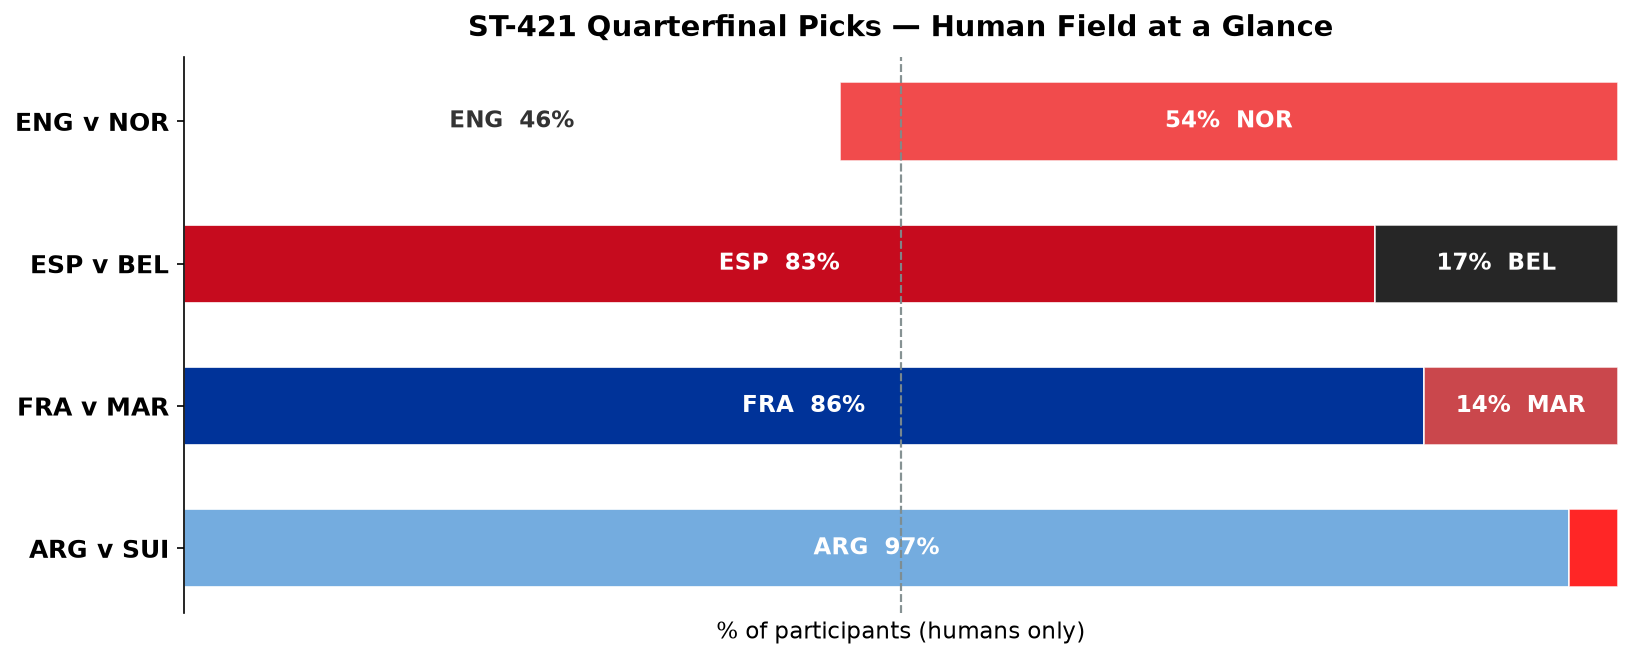
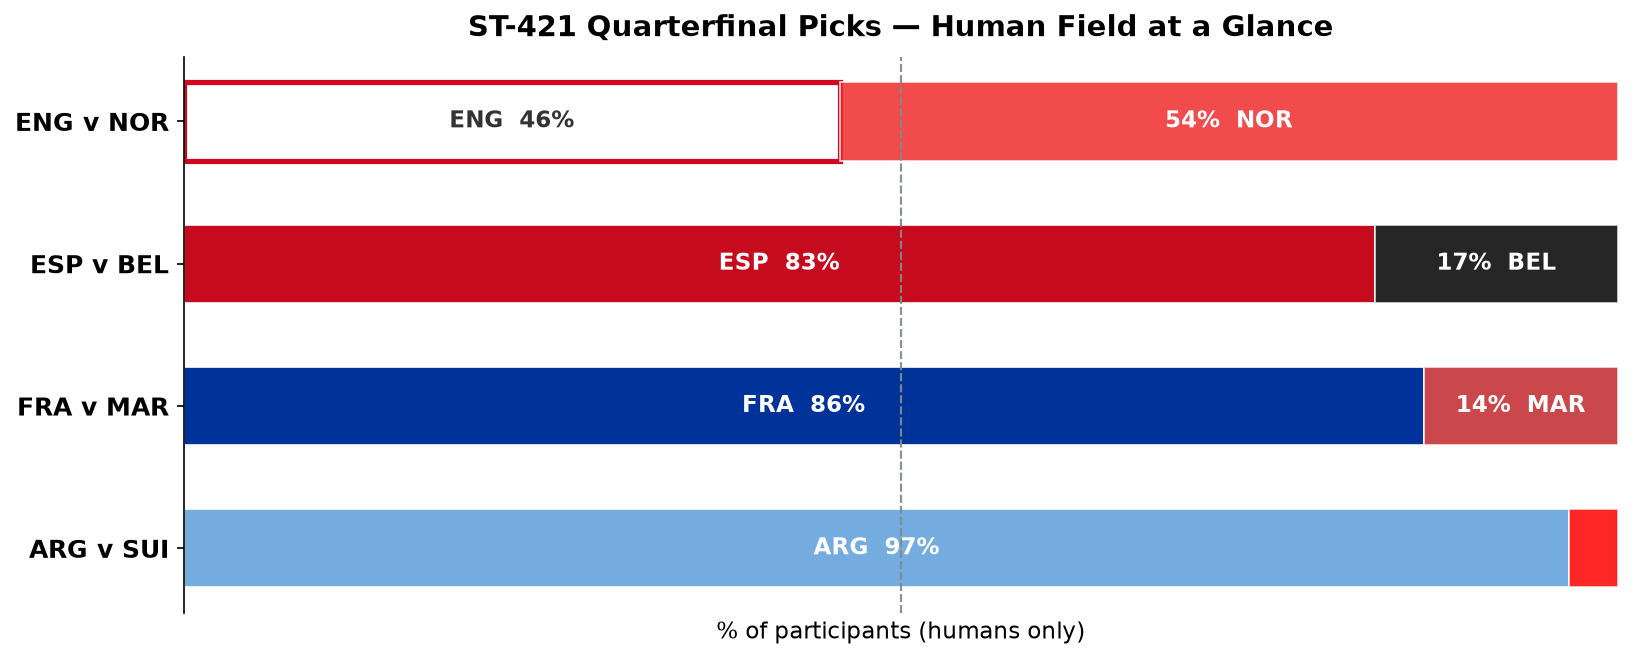
fix(fifa-2026): add red border to England bar in QF overview plot
White bar was invisible against white background.

Changed region(s): [[0.1249, 0.2124, 0.5309, 0.2731], [0.0937, 0.1214, 0.5309, 0.1517], [0.0937, 0.2124, 0.1249, 0.2428]]

diff --git a/scripts/st421_blog_plots.py b/scripts/st421_blog_plots.py
@@ -85,12 +85,12 @@ def plot_qf_overview(rows):
     for i, (col, a1, a2, pct1, pct2, n1, n2) in enumerate(data):
         y = i
         # Left bar (favourite / team 1)
-        c1 = TEAM_COLORS.get(
-            next((t for c, t, *_ in QF_MATCHES if c == col), a1), "#3498db"
-        )
-        ax.barh(y, pct1, height=bar_height, color=c1, edgecolor="white", linewidth=0.8)
-        # Right bar (underdog / team 2)
         col_info = next((m for m in QF_MATCHES if m[0] == col), None)
+        c1 = TEAM_COLORS.get(col_info[1] if col_info else a1, "#3498db")
+        edge1 = "#cf081f" if c1 == "#ffffff" else "white"
+        lw1 = 2.5 if c1 == "#ffffff" else 0.8
+        ax.barh(y, pct1, height=bar_height, color=c1, edgecolor=edge1, linewidth=lw1)
+        # Right bar (underdog / team 2)
         c2 = TEAM_COLORS.get(col_info[2] if col_info else a2, "#e74c3c")
         ax.barh(y, pct2, left=pct1, height=bar_height, color=c2,
                 edgecolor="white", linewidth=0.8, alpha=0.85)
